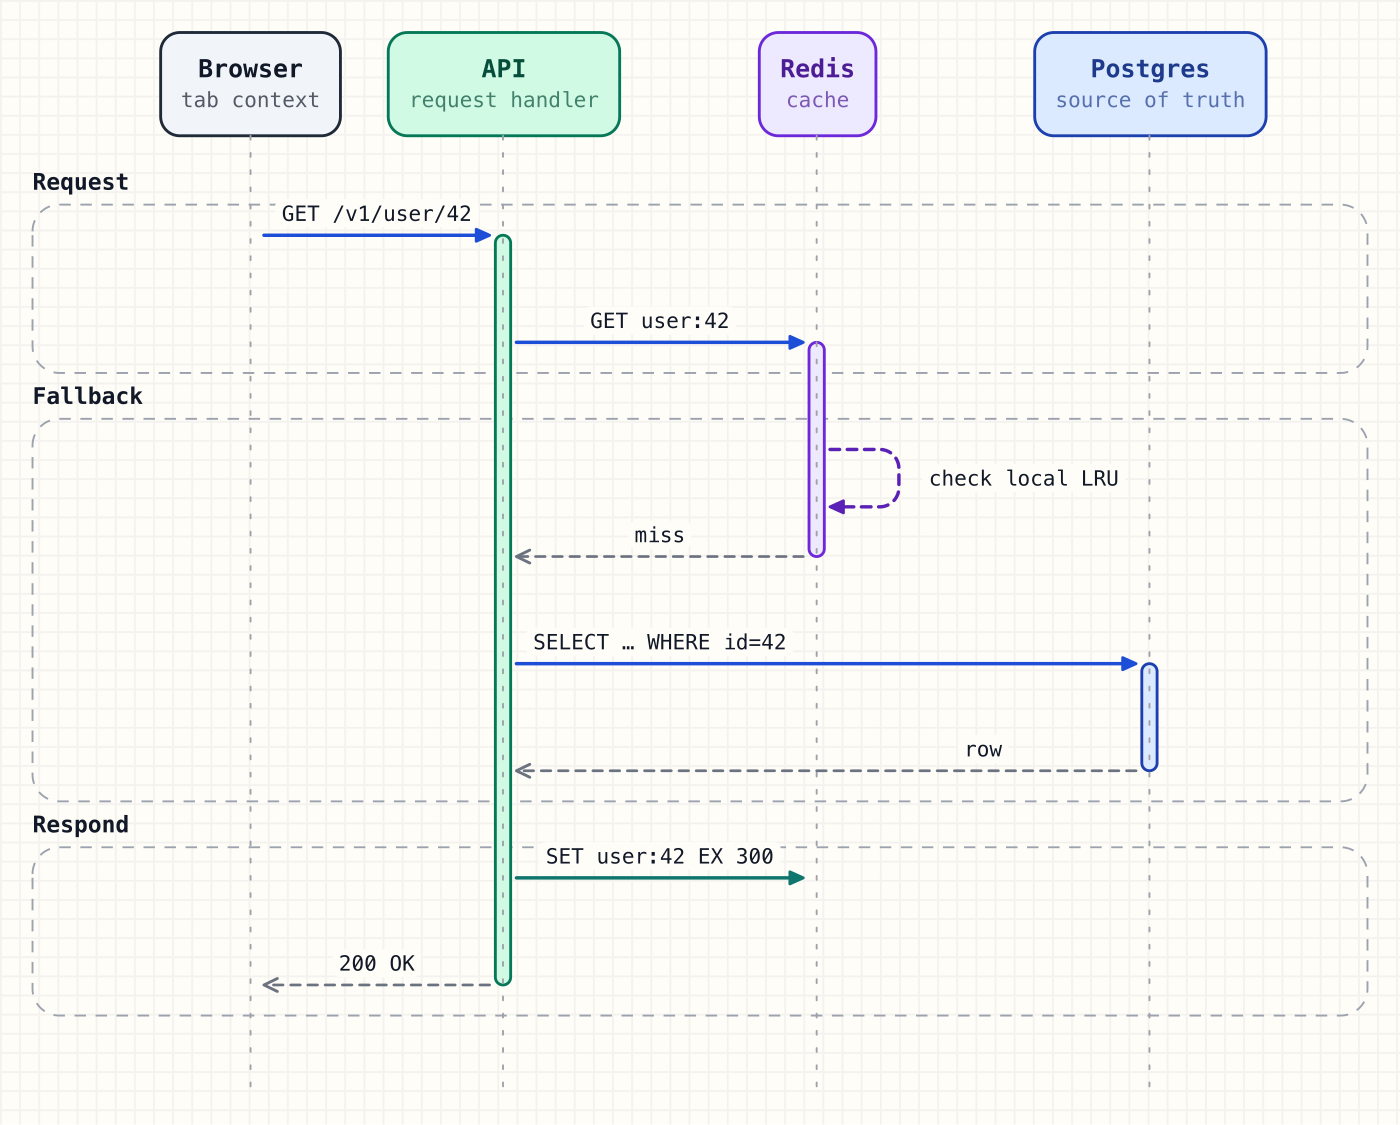
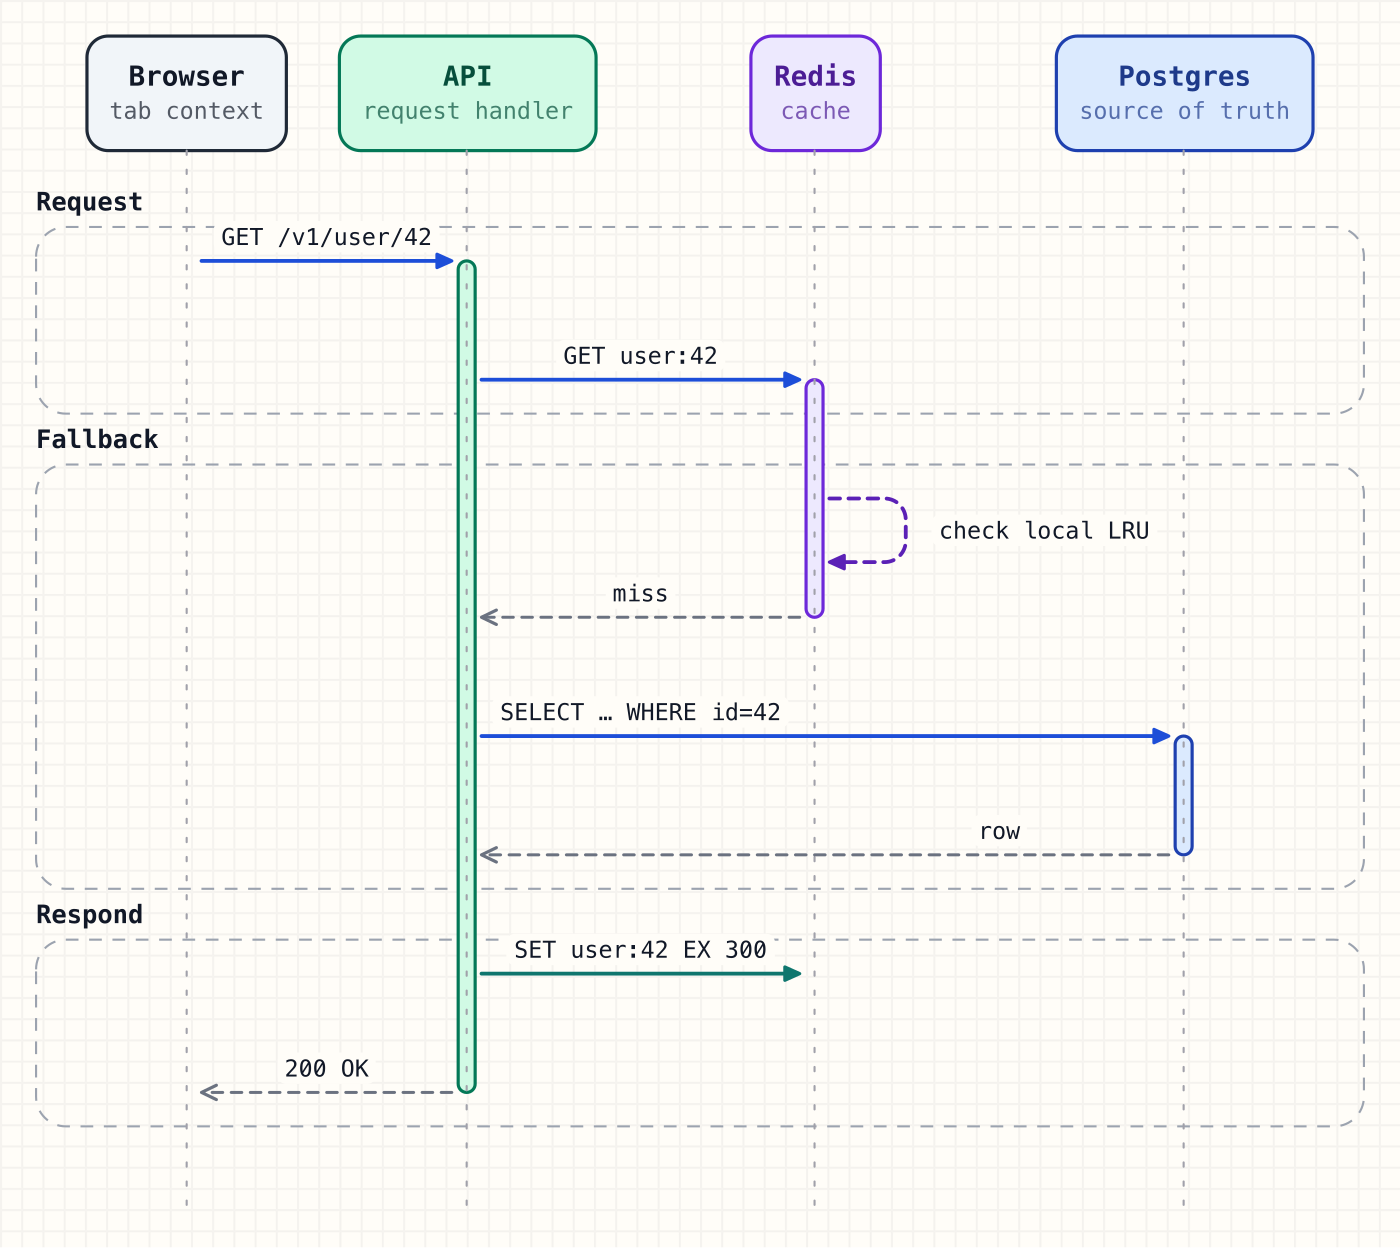
fix(templates): lifecycle via 标签落位改走声明折点, 一批零字节迁移
- lifecycle.ts: via 族标签原落在 laneY(kb,-1) 的凭空走廊, 改为声明折点串中段中点(此前零用例 ⇒ 零字节); 删同列同格死条件; 新增 via+label 测试
- 零字节(cmp ×9 变体): lifecycle/sequence 三处中点 → vec.mid; lifecycle 图例 → rightOf; layered 框 → expandRect + rectBottom; rowWidth → packRow().bounds(ulp 风险实测可忽略)
- sequence-archify-style: 补 export const scene(读数板 exit 2→0); 相带魔数 90 → bounds(actorRects) 派生(左右收到 24px), PNG 重出目视

diff --git a/templates/lifecycle.ts b/templates/lifecycle.ts
@@ -18,7 +18,7 @@
 //   ③ **跨列段带声明** ⇒ 列距按累积最小值顶开, 且 `plan.needs[].by` 读得出是谁顶开的
 //   ④ 改一个决策(换段序 / 挪一列) ⇒ 产物**变**; 同 spec 跑两遍 ⇒ 逐字节相同
 //   ⑤ 畸形入参当场抛(`ShapeInputError`, 点名字段 + 已知的带 / 状态 id), 不给半成品 scene
-//   ⑥ 决策行数 ≪ 手排量(手排参照 341 行; 本模板 demo 的 spec **33 行 / 23 条决策 ≈ 1/10**, 见文件尾)
+//   ⑥ 决策行数 ≪ 手排量(手排参照 339 行; 本模板 demo 的 spec **33 行 / 23 条决策 ≈ 1/10**, 见文件尾)
 //
 // ── 从决策到产物: 一条单向流水线 ─────────────────────────────────────
 //
@@ -71,9 +71,11 @@ import {
   bounds,
   edgeLabel,
   labelBoxSize,
+  mid,
   nodeFit,
   rectFace,
   resolveKnobs,
+  rightOf,
   solveAxis,
   textNote,
   tryExport,
@@ -595,7 +597,8 @@ export function buildLifecycle(spec: LifecycleSpec): { scene: Scene; opts: Expor
   const cxOf = (r: Rect): number => r.x + r.w / 2;
   /** 某列盒的左缘 / 某格列距的**正中间**(回边竖走廊的 x = 两侧盒面的中点, 到两盒等距) */
   const boxLeftOf = (col: number): number => Math.round(columns[col] - colW[col] / 2);
-  const railXOf = (g: number): number => (boxLeftOf(g) + colW[g] + boxLeftOf(g + 1)) / 2;
+  // 中点走 `vec.mid`(同一句话别在两处各写一遍): 左邻盒右面 ↔ 右邻盒左面的中点
+  const railXOf = (g: number): number => mid({ x: boxLeftOf(g) + colW[g], y: 0 }, { x: boxLeftOf(g + 1), y: 0 }).x;
 
   /** 去重 + 去共线: 同列下落必须塌成 **2 点直线**(判据 ②), 折点里的重合点也不许留 */
   const squash = (pts: Array<{ x: number; y: number }>): Array<{ x: number; y: number }> => {
@@ -673,11 +676,24 @@ export function buildLifecycle(spec: LifecycleSpec): { scene: Scene; opts: Expor
     // 边标签: 落位由本模板推导, 显式交给 `edgeLabel`(`at` 一给, core 就不再算它自己那套落位)
     if (!s.size || !s.t.label) continue;
     const h = s.size.height / 2 + labelGap;
-    const at = s.family === 'chain' || s.family === 'same-col' && ka === kb && (a.row ?? 0) === (b.row ?? 0)
-      ? { x: (ca + cb) / 2, y: face(ra, s.family === 'chain' ? 'right' : 'bottom').y - h }
-      : s.family === 'same-col'
-        ? { x: ca + labelGap + s.size.width / 2, y: (ra.y + ra.h + rb.y) / 2 }
-        : { x: (ca + cb) / 2, y: laneY(kb, s.lane) - h };
+    let at: { x: number; y: number };
+    if (s.family === 'chain') {
+      // 前行边: 落在这一条横线的中点上方(自身半高 + labelGap)
+      at = { x: (ca + cb) / 2, y: face(ra, 'right').y - h };
+    } else if (s.family === 'same-col') {
+      // 竖线右侧: x 贴线 + labelGap + 半宽; y 取两盒之间的竖直中点(上盒底 ↔ 下盒顶)
+      at = { x: ca + labelGap + s.size.width / 2, y: mid({ x: 0, y: ra.y + ra.h }, { x: 0, y: rb.y }).y };
+    } else if (s.family === 'via') {
+      // **via 单独一支**: 折点是作者声明的绝对坐标, 与 `lane` / "目标带上方的走廊"毫无关系 ——
+      // `via` 的 `s.lane` 恒为 -1(③ 只给 down / back 发通道), 走下面那条 `laneY(kb, -1)` 只会
+      // 算出目标带分隔线上方的**凭空位置**。落位取声明折点串(`squash` 后)的**中段中点** ——
+      // 与其余族"贴着自己那条段"同一口径; 偶数段时取靠后的那一段(`points` 中点法自然如此)。
+      const k = Math.floor((points.length - 1) / 2);
+      at = mid(points[k], points[k + 1]);
+    } else {
+      // 下行 / 回流: 落在各自那条横向走廊上(走廊 y 由 `laneY` 定, 见 ⑥)
+      at = { x: (ca + cb) / 2, y: laneY(kb, s.lane) - h };
+    }
     // tone 与上面那条边同源(260925): 迁移边有肤色(`s.t.tone`, 上面 `edges.push` 那个值), 标签字色跟着走
     labels.push(edgeLabel({ id: s.id, points, tone: s.t.tone }, s.t.label, { at }));
   }
@@ -817,6 +833,8 @@ export const DEMO_LIFECYCLE: LifecycleSpec = {
     { id: 'e-execution-failed', from: 'executing', to: 'failed', tone: 'rose' },
     { id: 'e-failed-retry', from: 'failed', to: 'executing', tone: 'emerald' },
   ],
+  // ⚠ 这 96 在 demo 上**不上屏**: `fit: true` ⇒ 出口 `fitScene` 按内容重定画布, 它只进 `plan.height`
+  //   (给不 fit 的调用方一个兜底); 想让图下方真留出图例位, 得关掉 fit 或把图例画进 scene。
   legendReserve: 96,
 };
 
@@ -836,13 +854,17 @@ export const decorateDemoLegend = (scene: Scene, plan: LifecyclePlan, theme: The
   const texts = [...(scene.texts ?? [])];
   for (const [tone, n] of counts) {
     const content = `${tone} ${n}`;
-    // 版式量: 图例步进宽; 块心 = 文字块顶贴 swatch 顶那一版(at.y 要给中心不是左上)
     const size = labelBoxSize(content);
-    nodes.push({ id: `legend-${tone}`, rect: { x, y, w: SWATCH, h: SWATCH }, tone, variant: 'solid' });
+    // 落位交给 `rightOf`(图例步进宽 = 版式量, 累加**不换 packRow** —— 加法结合序有 ulp 风险):
+    // "文字块在色块右边隔 8px"只该有一份口径; `align: 'start'` = 文字块**顶**贴色块顶, 而
+    // `at.x` 是文字左缘(`anchor: 'start'`)、`at.y` 要的是**块心** —— 两者不是同一个锚点。
+    const swatch: Rect = { x, y, w: SWATCH, h: SWATCH };
+    const box = rightOf(swatch, { w: size.width, h: size.height }, 8, { align: 'start' });
+    nodes.push({ id: `legend-${tone}`, rect: swatch, tone, variant: 'solid' });
     texts.push(textNote({
       id: `legend-text-${tone}`,
       content,
-      at: { x: x + SWATCH + 8, y: y + size.height / 2 },
+      at: { x: box.x, y: box.y + box.h / 2 },
       fontSize: BAND_LABEL_SIZE,
       anchor: 'start',
       color: theme.label,

diff --git a/templates/layered.ts b/templates/layered.ts
@@ -87,11 +87,13 @@ import {
   assignLanes,
   contentBounds,
   edgeLabel,
+  expandRect,
   fitGroupFrames,
   groupLabelRect,
   laneSlot,
   nodeFit,
   packRow,
+  rectBottom,
   resolveKnobs,
   routeOrthogonal,
   round1,
@@ -425,8 +427,10 @@ export function buildLayered(spec: LayeredSpec): { scene: Scene; opts: ExportOpt
   // 行的"自然宽"= 盒宽和 + 净空; 全图内容宽 = 最宽的那一行。行的落位是**居中**(骑中轴)
   // —— 这条政策只有一条理由: 层与层之间没有共同的左缘, 居中是唯一与"层序"无关的对称解,
   // 且窄行的两侧留白相等(框不会一边空一边挤)。想左右对齐请改行内成员次序, 别改这里。
+  // 行宽 = **那一行铺出来的长度**: 问 `packRow` 要, 不手抄一遍"Σ盒宽 + 净空"(同一句话写两遍必漂)
   const rowWidth = (row: readonly LayeredNode[]): number =>
-    row.reduce((a, n) => a + boxOf(n.id).w, 0) + nodeGapX * (row.length - 1);
+    (packRow({ items: row.map((n) => ({ w: boxOf(n.id).w, h: boxH })), gap: nodeGapX, x0: 0, y: 0 })
+      .bounds as Rect).w;
   const layerRowW = layers.map((l) => l.rows.map(rowWidth));
   const contentW = Math.max(...layerRowW.flat());
   const centerX = margin + contentW / 2;
@@ -511,10 +515,8 @@ export function buildLayered(spec: LayeredSpec): { scene: Scene; opts: ExportOpt
     labelPlacement: 'inner',
     rect: frameMode === 'derived'
       ? { x: 0, y: 0, w: 0, h: 0 } // 占位: 一律被 fitGroupFrames 覆盖(取不到会当场抛, 见下)
-      : {
-          x: round1(centerX - contentW / 2 - layerPad), y: round1(tops[i] - layerPad),
-          w: round1(contentW + 2 * layerPad), h: round1(contentH[i] + 2 * layerPad),
-        },
+      // 显式铺满: 内容盒四边各让出 `layerPad` —— 外扩走 `expandRect`(别手抄一遍"四元各减/加一次")
+      : expandRect({ x: centerX - contentW / 2, y: tops[i], w: contentW, h: contentH[i] }, layerPad),
     ...(frameMode === 'band' ? { frame: 'declared' as const } : {}),
   }));
   const scaffold: Scene = { width: 0, height: 0, nodes, edges: [], groups };
@@ -620,7 +622,9 @@ export function buildLayered(spec: LayeredSpec): { scene: Scene; opts: ExportOpt
       rows: rowYs[i], members: l.rows.flatMap((row) => row.map((n) => n.id)),
     })),
     gaps,
-    corridors: layers.slice(0, -1).map((l, i) => round1((frames.get(layers[i + 1].id) as Rect).y - (frames.get(l.id) as Rect).y - (frames.get(l.id) as Rect).h)),
+    // 走廊高 = 下一层框顶 − 这一层框底(`rectBottom` 就是"底边"的唯一口径, 别手抄 `y + h`)
+    corridors: layers.slice(0, -1).map((l, i) =>
+      round1((frames.get(layers[i + 1].id) as Rect).y - rectBottom(frames.get(l.id) as Rect))),
     boxes: Object.fromEntries(boxes),
     edges: edgePlan,
     lanes: assigned.plan,

diff --git a/templates/sequence-archify-style.ts b/templates/sequence-archify-style.ts
@@ -15,7 +15,7 @@
 // 不含 legend(已立项: 模板层记账里挂着这一条, 等它进模板时再补)。
 // =====================================================================
 
-import { THEMES, type Scene } from '../src/index';
+import { THEMES, bounds, type Scene } from '../src/index';
 import { buildSequence, lifelineStyle, type SequenceSpec } from './sequence';
 import { runScene } from '../scripts/runner';
 
@@ -47,7 +47,9 @@ const spec: SequenceSpec = {
   ],
 };
 
-const { scene, opts, plan } = buildSequence(spec);
+// 顶层导出 `scene`: 读数板(`scripts/inspect.ts`)认 `export default` / `export const scene` ——
+// 不出到顶层, `bun run scripts/inspect.ts templates/sequence-archify-style.ts` 只能退 2(用法错)
+export const { scene, opts, plan } = buildSequence(spec);
 
 // --- 后处理 1: 消息语义分色(id = m<行序>, 模板契约; lifeline 压浅灰) ---
 const INK_RETURN = '#6b7280';
@@ -78,7 +80,14 @@ const buildBands = (rows: number[], colLeft: number, colRight: number): Scene['g
     rect: { x: Math.round(colLeft), y: Math.round(rows[6] - bandPadY), w: Math.round(colRight - colLeft), h: Math.round(rows[7] - rows[6] + 2 * bandPadY) } },
 ];
 
-scene.groups = buildBands(plan.rows, plan.columns[0] - 90 - bandPadX, plan.columns[plan.columns.length - 1] + 90 + bandPadX);
+// 带的左右边界 = **actor 盒的并集 ± `bandPadX`**, 走 `bounds` 现算 —— 原写法是手定的魔数 90
+// ("半个 actor 盒宽"的替身), 而四个盒半宽是 47 / 60.5 / 30.5 / 60.5, 没有一个等于它: 带离盒
+// 于是忽远忽近(本图实测 **左 67 / 右 53.5px**), 而 `noCheck` 让门禁对这一档**一言不发**
+// (组语义豁免整条跳过, 没有任何判据盯着"相带离相框内的盒有多远")。
+// 并集 + pad 是一条与盒数 / 谁更宽都无关的判据 ⇒ 左右两侧离盒恒为 `bandPadX`(本图 24px)。
+const actorIds = new Set(spec.actors.map((a) => a.id));
+const bandBox = bounds(scene.nodes.filter((n) => actorIds.has(n.id)).map((n) => n.rect), { pad: bandPadX })!;
+scene.groups = buildBands(plan.rows, bandBox.x, bandBox.x + bandBox.w);
 
 // band 压浅灰细线(archify 观感; 缺省走 theme.groupStroke 是墨色, 太重)
 opts.groupStyles = Object.fromEntries(['band-request', 'band-fallback', 'band-respond'].map((id) => [id, { stroke: '#9ca3af', strokeWidth: 1, dash: '6 5' }]));

diff --git a/templates/sequence.ts b/templates/sequence.ts
@@ -78,6 +78,7 @@ import {
   THEMES,
   edgeLabel,
   labelBoxSize,
+  mid,
   nodeFit,
   resolveKnobs,
   solveAxis,
@@ -519,8 +520,11 @@ export function buildSequence(spec: SequenceSpec): { scene: Scene; opts: ExportO
       // 环的标签贴在环右侧: x = 环右缘 + labelGap + 半宽; y 居中对齐环高
       ? { x: cxFrom + msgInset + loopW + labelGap + s.size.width / 2, y: y + loopH / 2 }
       // 标签横向**只落在一个列距内**: 贴源侧那一格的中点(跨列消息居中放必被中间泳道线穿过);
-      // 纵向抬到线上方 —— 自身半高 + labelLift
-      : { x: (cxFrom + (s.dir > 0 ? columns[s.from + 1] : columns[s.from - 1])) / 2, y: y - (s.size.height / 2 + labelLift) };
+      // 纵向抬到线上方 —— 自身半高 + labelLift。中点走 `vec.mid`(同一句话别在两处各写一遍)
+      : {
+          x: mid({ x: cxFrom, y: 0 }, { x: s.dir > 0 ? columns[s.from + 1] : columns[s.from - 1], y: 0 }).x,
+          y: y - (s.size.height / 2 + labelLift),
+        };
     // tone 一并烘进标签(260925): 消息边有肤色, 标签的字色就跟着它走 —— 与上面那条
     // `edges.push({ …, tone: s.tone })` 同一个值, 不许在标签这侧另给一个色
     labels.push(edgeLabel({ id, points, tone: s.tone }, s.label, { at }));
@@ -534,7 +538,8 @@ export function buildSequence(spec: SequenceSpec): { scene: Scene; opts: ExportO
   // ⚠ 260920 实测: `opts.fit: true` 下**这两个声明的数根本不上屏** —— `fitScene` 走
   // `contentBounds`(折点列与标签矩形都在内), 把 width/height 砍成 1×1 后产物仍然逐字节相同
   // (内置示例: 声明 632 / 实际产物 586)。所以这里的价值只剩"给不 fit 的调用方一个兜底 +
-  // `plan.width/height` 可读", 而那个式子与 ④ 逐字重复 —— 重构候选本轮不动(记账见 ROADMAP)。
+  // `plan.width/height` 可读", 而那个式子与 ④ 逐字重复 —— 本轮不动: 它只喂"不 fit 的兜底数",
+  // 产物与门禁都不看这个值(没有立项依据)。
   const tailNeed = slots.reduce(
     (acc, s) => (s.self && s.from === actors.length - 1 && s.size
       ? Math.max(acc, msgInset + loopW + labelGap + s.size.width + labelGap)

diff --git a/test/lifecycle-template.test.ts b/test/lifecycle-template.test.ts
@@ -194,4 +194,28 @@ describe('templates/lifecycle · 判据', () => {
     expect(buildLifecycle(DEMO_LIFECYCLE).plan.routes.find((x) => x.id === 'e-failed-retry')!.corridor)
       .toBe('above:main/gap:col1|col2');
   });
+
+  it('附 · via 族的标签落在那条**声明折点串的中段中点**上(不是"目标带上方的凭空位置")', () => {
+    // 实测(260925): `via` 的 `s.lane` 恒为 -1(③ 段只给 down / back 发通道), 旧式落位
+    // `laneY(kb, -1)` 算出的是"目标带分隔线上方 + 一格 laneStep" —— 一个与作者声明折点
+    // **毫无关系**的凭空位置(同一条 via 换一组折点, 标签纹丝不动)。
+    const via = [{ x: 300, y: 900 }, { x: 300, y: 20 }, { x: 746, y: 20 }];
+    const spec: LifecycleSpec = {
+      ...DEMO_LIFECYCLE,
+      transitions: DEMO_LIFECYCLE.transitions.map((t) => (t.id === 'e-failed-retry' ? { ...t, label: 'retry', via } : t)),
+    };
+    // 折线 = [源盒面, ...声明折点, 目标盒面] 去共线后 5 点 ⇒ 中段 = via[1] → via[2]
+    const atOf = (s: LifecycleSpec): { x: number; y: number } => {
+      const l = (buildLifecycle(s).scene.labels ?? []).find((x) => x.id === 'L-e-failed-retry');
+      if (!l) throw new Error('scene 里没有 via 那条迁移的标签 —— 改名了就把判据一起改');
+      return l.at;
+    };
+    expect(atOf(spec)).toEqual({ x: (via[1].x + via[2].x) / 2, y: (via[1].y + via[2].y) / 2 });
+    // 判据的要点是"落位跟着**声明折点**走": 折点挪一截, 标签跟着挪(旧式落位不会动)
+    const moved: LifecycleSpec = {
+      ...spec,
+      transitions: spec.transitions.map((t) => (t.id === 'e-failed-retry' ? { ...t, via: [via[0], via[1], { ...via[2], x: 500 }] } : t)),
+    };
+    expect(atOf(moved)).toEqual({ x: (via[1].x + 500) / 2, y: via[2].y });
+  });
 });

diff --git a/templates/README.md b/templates/README.md
@@ -122,10 +122,12 @@ emitLayered({
 bun run templates/layered.ts --out=/tmp/arch.svg [--dark]
 ```
 
-内置示例 = `examples/gallery/harness-arch.ts`(15 节点, **手排 166 行**)的**同拓扑同标签**版 ——
+内置示例 = `examples/gallery/harness-arch.ts`(15 节点, **手排 167 行**)的**同拓扑同标签**版 ——
 两边的差值就是"起手骨架"替作者算掉的那部分。
 
-**四条实测出来的坑**(改模板前先读):
+**实测出来的坑 · 调用方视角四条**(改模板前先读)。⚠ 与 `templates/layered.ts` 文件头那三条**不是同一份**:
+文件头按"改这个文件时的落点"记(标题盒 / 走廊腰线落位 / 层框形态归作者), 这里按"调用方会踩的四件事"记 ——
+两处各留一个视角, 条数自然各算各的(此处四条 / 文件头三条), 别把差异读成"哪边漏了"。
 
 1. **端口选面只有一种情形能自动** —— 相邻层之间的**竖直通道**(上端在上层末行 ∧ 下端在下层首行,
    或那一端就是层框)。同层边 / 自环 / 跳层边 / 源在中间行一律**当场抛**。实测: 把 `LOOP` 放到服务层
@@ -178,7 +180,7 @@ emitLifecycle({
 bun run templates/lifecycle.ts --out=/tmp/life.svg [--dark]
 ```
 
-内置示例 = `examples/gallery/lifecycle-agent-run.ts`(**3 段带 + 10 状态 + 10 迁移**, 手排 **341 行**)的
+内置示例 = `examples/gallery/lifecycle-agent-run.ts`(**3 段带 + 10 状态 + 10 迁移**, 手排 **339 行**)的
 **同拓扑**版: 决策只有 **33 行 / 23 条** ⇒ 手排税的 **≈ 1/10**(差值就是"起手骨架"替作者算掉的那部分)。
 
 **门禁口径(别把 warning 当成 0)**: 同拓扑下 showcase 档 **0 error**, 但**不是 0 warning** —— 还剩
@@ -208,8 +210,8 @@ bun run templates/lifecycle.ts --out=/tmp/life.svg [--dark]
 (走 `emitLifecycle` 的 `decorate` 口子进, 那条口子只追加、不改骨架的任何一步)。
 
 **两处 core 缺口(未动, 记账)**: ① 没有"层内自动换行"政策(`nodeFit` 按行数给高, 单行更长只能推宽、
-推不动带间距离) ② `assignLanes` 未用(签名不明, 且 `sequence.ts` 也没用过; 走廊错开现由模板自己的
-`laneStep` 排)。详见文末「已知 core 缺口」。
+推不动带间距离) ② `assignLanes` 本模板未用(走廊错开现由模板自己的 `laneStep` 排; 它在模板层的第一个
+消费者是 `layered.ts` 260922)。详见文末「已知 core 缺口」。
 
 ## 什么时候该新写一个模板
 
@@ -261,7 +263,7 @@ bun run templates/lifecycle.ts --out=/tmp/life.svg [--dark]
   **共同地基**: architecture 的层距 / lifecycle 的跨带列距 / workflow 的秩间隙是**同一个问题**
   (跨多格取 max, 且要能读出「是谁顶开的」)
 - **P1 · lifecycle / 状态机**(`stateMachine(states)`) —— 手排税证据最硬(`examples/gallery/lifecycle-agent-run.ts`
-  **341 行**是全仓最大手写示例, 还专门配了版式判据 `test/lifecycle-agent-run.test.ts`); 骨架最规整
+  **339 行**是全仓最大手写示例, 还专门配了版式判据 `test/lifecycle-agent-run.test.ts`); 骨架最规整
   (三条带 × 列推进); 硬骨头是真骨头 —— **终端态回归 / 回边**, archify 自己也没解决(靠作者手写绝对坐标
   `via`), 而这正是我们 260918 刚补的 `via` + 横腰线候选 + `assignLanes` 能吃掉的一口; 可借口径具体
   (列对齐约定: event / terminal 的 `col: N` ⇔ main 的 `col: N+2`; rail 反推; 通道 padding ±36/±34;
@@ -326,6 +328,7 @@ bun run templates/lifecycle.ts --out=/tmp/life.svg [--dark]
   都**没用上**它 —— 阶段带的分隔线自己拼得动, 分层带压根不需要基准线, 所以缺口仍在: 等真有一张
   图型被它绊住再说, 不提前造抽象。
 - **`lifecycle.ts`(260922)的两处缺口** —— 同上那条**没有换行政策**(同一件事在阶段带里表现为
-  "单行更长只推宽, 带间距离不跟着长"), 以及 **`assignLanes` 在模板层仍无消费者**(签名不明 ——
-  参数是"请求"还是"结果"没定, `sequence.ts` 也没用过; 走廊错开现由模板自己的 `laneStep` 排)。
+  "单行更长只推宽, 带间距离不跟着长"), 以及 **`assignLanes` 在 lifecycle 模板里仍无消费者**(走廊
+  错开现由模板自己的 `laneStep` 排) —— `layered.ts` 260922 已是它在模板层的第一个消费者, 别再拿
+  "模板层没人用"当它不成熟的证据(`sequence.ts` 不用它, 是因为序列图没有腰线要摊)。
   两处都在模板侧规避, 细节见上文 `lifecycle.ts` 契约段。
